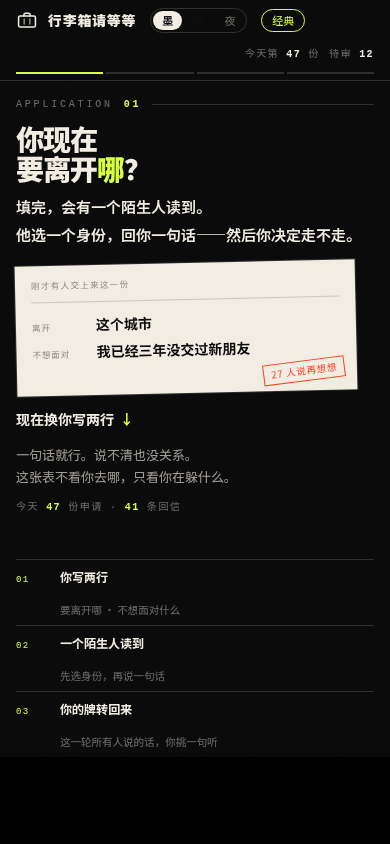
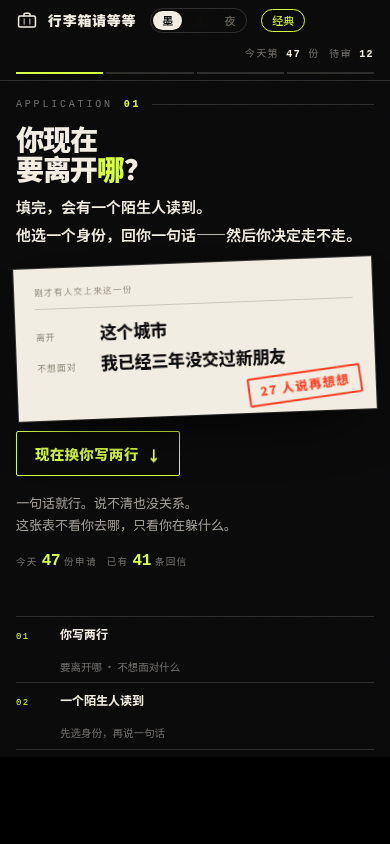
polish: 首屏那张牌加重，红章放大，CTA 变成按钮
用户反馈「有点感觉但还要调」。自查五处不够，逐条改：

1. 卡片太正太轻 → 倾斜 -1.3° 改 -2.2°，加 60px 投影和 1px 亮边，内边距加大，
   主要那行字 14px 改 17px 加粗
2. 红章 9.5px 太小 → 12.5px 加粗，2.5px 描边，往右下挪
3. 「换你写两行」是文字链接，看不出能点 → 改成琥珀色描边按钮，hover 实心
4. 社会证明 10px 看不见 → 数字 16px 加粗，标签 9.5px，两段分开
5. 全场静态 → 加入场：卡片 0.62s 落位，章延迟 0.62s 砸下（static 模式不变）

三档分辨率均不溢出（1440×900 803/813、1280×720 610/633、1920×1080 982/993）。

diff --git a/index.html b/index.html
@@ -279,38 +279,48 @@ h1.display em{ font-style:normal; color:var(--amber); }
 }
 .herocard{
   position:relative; background:var(--paper); color:var(--ink);
-  padding:14px 16px 30px; margin:4px 0 12px; max-width:340px;
-  box-shadow:var(--shadow); transform:rotate(-1.3deg);
+  padding:18px 20px 40px; margin:10px 0 16px; max-width:380px;
+  transform:rotate(-2.2deg);
+  box-shadow:0 26px 60px -28px rgba(0,0,0,.95), 0 0 0 1px rgba(242,237,226,.20);
 }
+/* 入场：卡片先落，章再砸 */
+@keyframes cardIn{ from{ opacity:0; transform:rotate(-2.2deg) translateY(22px) scale(.97) } to{ opacity:1; transform:rotate(-2.2deg) } }
+@keyframes chStamp{ 0%{ opacity:0; transform:rotate(-6deg) scale(2.2) } 60%{ opacity:1; transform:rotate(-6deg) scale(.92) } 100%{ opacity:1; transform:rotate(-6deg) scale(1) } }
+html[data-layout="new"]:not(.static) .herocard{ animation:cardIn .62s .18s var(--ease) both; }
+html[data-layout="new"]:not(.static) .hc-stamp{ animation:chStamp .5s .62s cubic-bezier(.2,1.5,.35,1) both; }
 .hc-top{
   font-family:var(--mono); font-size:8.5px; letter-spacing:.16em;
   color:var(--ink-faint); margin-bottom:9px; padding-bottom:8px;
   border-bottom:1px solid var(--rule);
 }
 .hc-row{ display:grid; grid-template-columns:56px 1fr; gap:8px; align-items:baseline; padding:3px 0; }
-.hc-row span{ font-family:var(--mono); font-size:8.5px; letter-spacing:.1em; color:var(--ink-faint); }
-.hc-row b{ font-size:14px; font-weight:700; line-height:1.5; }
+.hc-row span{ font-family:var(--mono); font-size:9px; letter-spacing:.1em; color:var(--ink-faint); padding-top:2px; }
+.hc-row b{ font-size:17px; font-weight:800; line-height:1.45; letter-spacing:-.01em; }
 .hc-stamp{
-  position:absolute; right:12px; bottom:9px;
-  font-family:var(--sans); font-size:9.5px; letter-spacing:.08em;
-  color:var(--seal); border:1.5px solid var(--seal);
-  padding:1.5px 7px; transform:rotate(-6deg);
+  position:absolute; right:14px; bottom:11px;
+  font-family:var(--sans); font-size:12.5px; font-weight:800; letter-spacing:.1em;
+  color:var(--seal); border:2.5px solid var(--seal); border-radius:2px;
+  padding:2px 10px; transform:rotate(-6deg);
 }
 .herocap{
-  display:inline-flex; align-items:center; gap:6px;
-  font-family:var(--sans); font-size:14px; font-weight:700; color:var(--cream);
-  margin:0 0 14px; padding:0; border:0; background:none; cursor:pointer;
-  border-bottom:1px solid transparent; transition:.18s;
+  display:inline-flex; align-items:center; gap:8px;
+  font-family:var(--sans); font-size:14.5px; font-weight:800; letter-spacing:.02em;
+  color:var(--amber); margin:0 0 16px; padding:11px 18px;
+  border:1.5px solid var(--amber); border-radius:2px; background:transparent;
+  cursor:pointer; transition:.18s var(--ease);
 }
-.herocap:hover{ color:var(--amber); border-bottom-color:var(--amber); }
+.herocap:hover{ background:var(--amber); color:var(--ink); }
+.herocap i{ font-style:normal; }
 .herocap i{ font-style:normal; color:var(--amber); display:inline-block; animation:nudge 1.6s var(--ease) infinite; }
 @keyframes nudge{ 0%,100%{ transform:translateY(0) } 50%{ transform:translateY(4px) } }
 
 .proof{
-  font-family:var(--mono); font-size:10px; letter-spacing:.14em;
+  display:flex; align-items:baseline; gap:10px;
+  font-family:var(--mono); font-size:9.5px; letter-spacing:.14em;
   color:var(--cream-faint); margin-bottom:18px;
 }
-.proof b{ color:var(--amber); font-weight:600; }
+.proof b{ color:var(--amber); font-weight:700; font-size:16px; letter-spacing:-.02em; }
+.proof span{ display:inline-flex; align-items:baseline; gap:4px; }
 .privacy{
   display:flex; align-items:center; gap:8px;
   font-size:12px; color:var(--cream-dim); margin:18px 0 -4px;
@@ -752,30 +762,38 @@ h1.display em{ font-style:normal; color:var(--amber); }
   [data-layout="new"] .mech{ font-size:13.5px; line-height:1.6; margin-bottom:7px; }
   [data-layout="new"] .herocard{
   position:relative; background:var(--paper); color:var(--ink);
-  padding:14px 16px 30px; margin:4px 0 12px; max-width:340px;
-  box-shadow:var(--shadow); transform:rotate(-1.3deg);
+  padding:18px 20px 40px; margin:10px 0 16px; max-width:380px;
+  transform:rotate(-2.2deg);
+  box-shadow:0 26px 60px -28px rgba(0,0,0,.95), 0 0 0 1px rgba(242,237,226,.20);
 }
+/* 入场：卡片先落，章再砸 */
+@keyframes cardIn{ from{ opacity:0; transform:rotate(-2.2deg) translateY(22px) scale(.97) } to{ opacity:1; transform:rotate(-2.2deg) } }
+@keyframes chStamp{ 0%{ opacity:0; transform:rotate(-6deg) scale(2.2) } 60%{ opacity:1; transform:rotate(-6deg) scale(.92) } 100%{ opacity:1; transform:rotate(-6deg) scale(1) } }
+html[data-layout="new"]:not(.static) .herocard{ animation:cardIn .62s .18s var(--ease) both; }
+html[data-layout="new"]:not(.static) .hc-stamp{ animation:chStamp .5s .62s cubic-bezier(.2,1.5,.35,1) both; }
 .hc-top{
   font-family:var(--mono); font-size:8.5px; letter-spacing:.16em;
   color:var(--ink-faint); margin-bottom:9px; padding-bottom:8px;
   border-bottom:1px solid var(--rule);
 }
 .hc-row{ display:grid; grid-template-columns:56px 1fr; gap:8px; align-items:baseline; padding:3px 0; }
-.hc-row span{ font-family:var(--mono); font-size:8.5px; letter-spacing:.1em; color:var(--ink-faint); }
-.hc-row b{ font-size:14px; font-weight:700; line-height:1.5; }
+.hc-row span{ font-family:var(--mono); font-size:9px; letter-spacing:.1em; color:var(--ink-faint); padding-top:2px; }
+.hc-row b{ font-size:17px; font-weight:800; line-height:1.45; letter-spacing:-.01em; }
 .hc-stamp{
-  position:absolute; right:12px; bottom:9px;
-  font-family:var(--sans); font-size:9.5px; letter-spacing:.08em;
-  color:var(--seal); border:1.5px solid var(--seal);
-  padding:1.5px 7px; transform:rotate(-6deg);
+  position:absolute; right:14px; bottom:11px;
+  font-family:var(--sans); font-size:12.5px; font-weight:800; letter-spacing:.1em;
+  color:var(--seal); border:2.5px solid var(--seal); border-radius:2px;
+  padding:2px 10px; transform:rotate(-6deg);
 }
 .herocap{
-  display:inline-flex; align-items:center; gap:6px;
-  font-family:var(--sans); font-size:14px; font-weight:700; color:var(--cream);
-  margin:0 0 14px; padding:0; border:0; background:none; cursor:pointer;
-  border-bottom:1px solid transparent; transition:.18s;
+  display:inline-flex; align-items:center; gap:8px;
+  font-family:var(--sans); font-size:14.5px; font-weight:800; letter-spacing:.02em;
+  color:var(--amber); margin:0 0 16px; padding:11px 18px;
+  border:1.5px solid var(--amber); border-radius:2px; background:transparent;
+  cursor:pointer; transition:.18s var(--ease);
 }
-.herocap:hover{ color:var(--amber); border-bottom-color:var(--amber); }
+.herocap:hover{ background:var(--amber); color:var(--ink); }
+.herocap i{ font-style:normal; }
 .herocap i{ font-style:normal; color:var(--amber); display:inline-block; animation:nudge 1.6s var(--ease) infinite; }
 @keyframes nudge{ 0%,100%{ transform:translateY(0) } 50%{ transform:translateY(4px) } }
 
@@ -866,7 +884,7 @@ html.static .pass-foot{ transform:translateX(-42px); opacity:.3; }
       </div>
       <button type="button" class="herocap" id="heroCap" hidden>现在换你写两行 <i>↓</i></button>
       <p class="sub">一句话就行。说不清也没关系。<br>这张表不看你去哪，只看你在躲什么。</p>
-      <p class="proof" id="proofLine" hidden>今天 <b id="proofPool">47</b> 份申请 · <b id="proofReply">41</b> 条回信</p>
+      <p class="proof" id="proofLine" hidden><span>今天<b id="proofPool">47</b>份申请</span><span>已有<b id="proofReply">41</b>条回信</span></p>
     </div>
 
     <div class="col-f">
